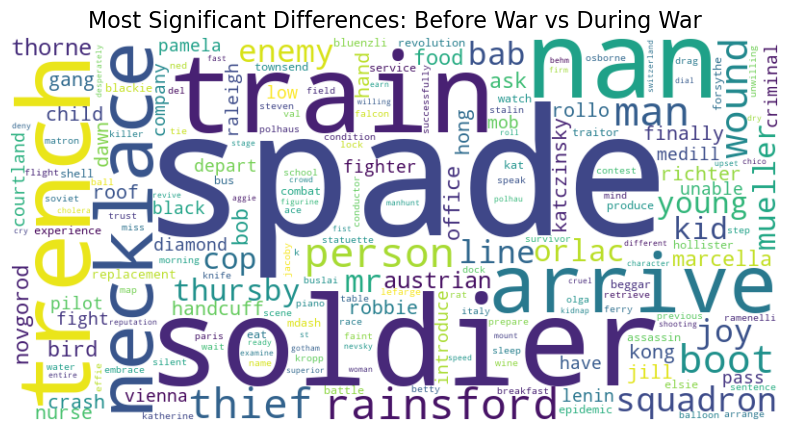
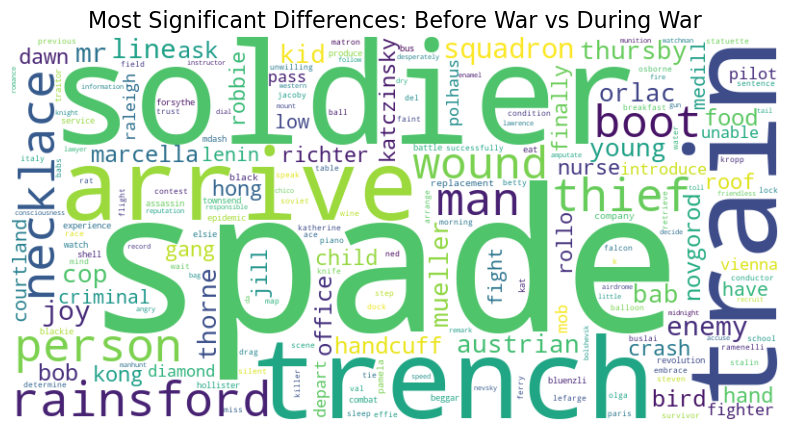
Small fixes, added NLP, changed plot text

diff --git a/WW2.md b/WW2.md
@@ -8,7 +8,6 @@ subtitle: How did it impact the movie industry ?
 - [Natural language processing](#natural-language-processing)
 - [Movie plot summaries analysis](#movie-plot-summaries-analysis)
 - [Ethniciy analysis](#ethniciy-analysis)
-- [Conclusion](#conclusion)
 
 # Genre Analysis 
 
@@ -33,7 +32,7 @@ Looking further back, an earlier peak is noticeable in Asia in 1938 and 1939, wh
 You return to your sofa to start watching the movie “Casablanca”, which has an IMDb rating of 8.5 and is about the war. As you watch, you notice that the film serves as propaganda against the Nazis.
 It's time for a movie break with some fun data analysis. This time, you focus on the propaganda movie genre. 
 
-![All continent](/assets/figures/WW2/Movies/Propaganda%20by%20continent.jpg){: .mx-auto.d-block :}
+![All continent](/assets/figures/WW2/Movies/Propaganda_by_continent.jpg){: .mx-auto.d-block :}
 
 You observe an increase in the production of propaganda films across all three continents you studied, starting from 1942. However, Europe shows a notable peak in 1940, right at the beginning of the war.
 By splitting Europe into two categories: Germany and the rest of Europe, you discover that the peak is primarily driven by German films. What a surprise !
@@ -43,29 +42,32 @@ By splitting Europe into two categories: Germany and the rest of Europe, you dis
 
 # Natural language processing
 
+Intrigued by earlier findings, a question arises: could the peaks in certain movie genres during World War II be unrelated to the war itself? To explore this, you decide to analyze movie plots from that period, focusing on the genres identified earlier.
 
+You sit again on your sofa, take a deep breath and try to remember your history lessons.. You recall that the years before the war were marked by rising antisemitism in Europe, while the post-war period emphasized the condemnation of the Nazi regime and the celebration of resistance efforts.
+
+To investigate, you conduct a sentiment analysis on the characters, isolating plot summaries featuring negatively perceived characters. You then divide the data into three periods: before the war (1930-1938), during the war (1939-1945), and after the war (1945-1955). The goal is to verify whether negatively perceived characters were more likely to follow some trends - for example being Jewish before the war and Nazis or Germans after. 
+
+By analyzing the words associated with these negative characters in the three different periods, you aim to reveal these trends. You decide to plot the words that exhibit the most significant differences for the periods before and during war, and for the periods during and after war.
 
 <div class="menu">
-  <button class="menu-item" onclick="showContent('content1')">Before After</button>
-  <button class="menu-item" onclick="showContent('content2')">Before During</button>
+  <button class="menu-item" onclick="showContent('content1')">Before During</button>
   <button class="menu-item" onclick="showContent('content3')">During After</button>
 </div>
 
 <div id="content-section">
   <div id="content1" class="content">
-    <h2>Item 1</h2>
-    <p>This is the content for Item 1.</p>
-    <img src="{{ '/assets/figures/WW2/NLP/NLP_before_after.png' | relative_url }}" alt="Image 1">
+    <h2>Before During</h2>
+    <img src="{{ '/assets/figures/WW2/NLP/NLP_before_during.png' | relative_url }}" alt="Image 1">
+    <p>You first have a look at the comparison between the period before the war and during the war. Bingo ! You realize the words that show the largest differences are actually related to war : enemy, soldier, criminal, assassin, battle, spade... Some of them even seem to be specifically related to world war II : train, pilot, Vienna, Italy, Soviet, Stalin, Paris. </p>
+    
   </div>
-  <div id="content2" class="content" style="display:none;">
-    <h2>Item 2</h2>
-    <p>This is the content for Item 2.</p>
-    <img src="{{ '/assets/figures/WW2/NLP/NLP_before_during.png' | relative_url }}" alt="Image 2">
-  </div>
+
   <div id="content3" class="content" style="display:none;">
-    <h2>Item 3</h2>
-    <p>This is the content for Item 3.</p>
+    <h2>During After 3</h2>
     <img src="{{ '/assets/figures/WW2/NLP/NLP_during_after.png'| relative_url }}" alt="Image 3">
+    <p>You then examine the comparison between the period during the war and after the war. Bing again ! You find a lot of words related to world war II, but now there is also the topic of resistance : Hitler, nazi, resistance, guerilla, Reich, France, Vichy, Germans, Führer, Mussolini...</p>
+    
   </div>
 </div>
 
@@ -79,7 +81,7 @@ By splitting Europe into two categories: Germany and the rest of Europe, you dis
     document.getElementById(contentId).style.display = 'block';
   }
 </script>
-
+You did not find exactly what you expected, but you are definitely convinced the peaks in certain movie genres are not a coincidence !
 <style>
   .menu {
     display: flex;
@@ -106,65 +108,66 @@ By splitting Europe into two categories: Germany and the rest of Europe, you dis
 
 # Movie plot summaries analysis
 
-You wish to look at the plot summaries of movies. You think to yourself : "Surely having a world war has changed not only the types of movies produced but the content of the movies itself too..." You then try to compute some statistics over the plot summaries. 
+You now want to look at the plot summaries of movies. You think to yourself, "Surely the impact of a world war must have influenced not only the types of movies produced but also their content..." So, you decide to compute some statistics based on the plot summaries.
 
-You first try to look at the expected number of words before and after the second world war.
-You filter out words that have an expected number of appearences less than 0.001, as they appear way too rarely. After some tedious computing, you obtain the first thirty biggest ratios :
+First, you look at the expected number of words before and after World War II. To ensure the analysis is meaningful, you filter out words that appear too infrequently, removing those with an expected frequency of less than 0.001. After some calculations, you obtain the top thirty words with the largest ratio of occurrences.
 
 {% include_relative assets/figures/WW2/Plot/WW2_plot_ratio_1e-3.html %} 
 
-What does that mean ? We see that the word "tank" appeared ~11 times more afterwards, "japanese" ~10 times more and "terrorist" ~8 times more. You are a bit confused by some words that are too specific, such as "alex" or "sandy". You decide to filter more aggressively and take out words that have an expected number of appearences less than 0.01 now. Again you do some computing and you obtain this :
+What does that tell us ? You observe that certain words have become significantly more frequent after the war. For example, "tank" appears roughly 11 times more often, "japanese" about 10 times more, and "terrorist" roughly 8 times more. Some words, such as "alex" or "sandy," are too specific and we would want more general words. So, you decide to filter more aggressively, removing words with an expected frequency lower than 0.01. 
 
 {% include_relative assets/figures/WW2/Plot/WW2_plot_ratio_1e-1.html %} 
 
-You are happy to find more general words. You see that the words "phone" appears ~4 times more and camera appears ~3 times more. You approve these results as technology is more obviously more present after the begginning of WW2 than before. You notice that among the plot with more general words, the words "mission", "u.s.", and "killing" appear ~3 times more.  You can not say that WW2 is the cause of the more frequent usage of these words but we keep them in mind for later, when we will analyse the plot summaries in a more specific time period.
+Now, you are pleased to see more general terms. For instance, "phone" appears approximately 4 times more frequently, and "camera" about 3 times more often. These results seem reasonable, as technology is used a lot more after WWII. Among the more general terms, you also find words like "mission," "u.s.," and "killing" appearing about 3 times more often. While you cannot definitively attribute these shifts to WWII, you keep these findings in mind for future analysis when you focus on specific time periods.
 
-Okay, good. You try now to fit a scatter plot comparing the expected number of words before and after WW2 with a linear regression. It looks like this :
+Okay, good. Now, you decide to fit a scatter plot comparing the expected number of words before and after WWII with a linear regression.
 
-<span style="color:green">Cheat : added picture </span>.
 
 ![WW2_plot_regression](/assets/figures/WW2/Plot/WW2_plot_regression_2.png){: .mx-auto.d-block :}
 
-The slope of the linear regression is ~1.37, suggesting that the expected number of a word tends to grow. This naively suggests that plot summaries got longer with time and should be ~1.37 longer in expectation, which makes sense but does not help us really here. We can however use this regression line to find interesting key words; you try to find the words that are the furthest from the regression line. This would allow for a more fair analysis for the biggest/smallest ratios, as it "normalizes" the fact that plot summaries got longer with time. You plot the ten furthest words :
+The slope of the linear regression is approximately 1.37, suggesting that the expected frequency of a word tends to increase over time. This is simply because that plot summaries have gotten longer, with an average increase of about 1.37 times, which makes sense but doesn't provide much insight for our current analysis. However, we can use this regression line to identify interesting keywords by focusing on those that deviate the most from the line. This approach helps "normalize" the analysis by accounting for the general trend of longer plot summaries over time. You plot the ten words that deviate most from the regression line.
+
 
 {% include_relative assets/figures/WW2/Plot/WW2_plot_furthest_regression.html %} 
 
- You then think that the theme of killing got more popular after WW2 as you see the word "kill" is present again.
+From this, you observe that the theme of "killing" seems to have gained more prominence after WWII, as the word "kill" appears more frequently.
 
-Instead of looking over statistics of all words, you try to focus on movies with certain key words. As key words, "Nazi", "Hitler", "Axis", "Allied" and "Jew" come first in your mind. You try to look at the number of movies that contain these key words. 
+Next, you shift your focus to movies containing specific keywords. You first think of terms like "Nazi," "Hitler," "Axis," "Allied," and "Jew." You examine the number of movies featuring these keywords over time.
 
 {% include_relative assets/figures/WW2/Plot/WW2_key_words_occurence.html %} 
 
 
-It makes sense that the word nazi is used a lot between 1940-1950, but you notice that it then stays constant, oscillating between 3 and 10 movies per year after 1950. The key words "Hitler", "Axis" and "Allied" present the same pattern, altough smaller in magnitudes. The key word "Jew" is more interesting. We can see growth until the beginning of WW2, where it shrinks a bit and stays constant until 1960, where it grows again. We could understand that after the atrocities comitted towards the jewish people, the movie industry may have been more prudent.
+It’s not surprising that the word "Nazi" peaks in the middle of WWII, but you notice that its frequency goes down already in 1944. We can not see it in the plot but you find that after 1950, between 3 and 10 movies per year contain the key word "Nazi", making it a theme. Similarly, the keywords "Hitler," "Axis," and "Allied" show a similar pattern, although with smaller magnitudes. The keyword "Jew" is more intriguing. We see growth leading up to WWII, then a slight decline during the war. You look at the time afterwards and you see a resurgence after 1960. This suggests that, in response to the atrocities committed against Jewish people, the film industry may have initially been cautious but gradually returned to addressing the topic in the post-war years.
 
-You find it interesting but it would make more sense to focus on time periods. You do that in two ways. First, you plot the years before and after the beginning of the war. Second, the years during the war, some years beforhand and some years afterwards. You remember the words "mission", "u.s.", "killing" and "kill" and you quickly add them in the key words. You plot the percentages of movies that contain the key words with respect to these time periods :
+You find this pattern interesting but decide it would be more insightful to focus on specific time periods. You examine the years during the war along with the years just before and after. You recall the words "mission," "u.s.," "killing," and "kill" and add them to your keyword list. You then plot the percentages of movies containing these keywords within the defined time periods.
 
 {% include_relative assets/figures/WW2/Plot/WW2_plot_percentage_before_during_after.html %} 
 
-We see again that the word "Nazi" was very present during the war, surely in propaganda movies. The words "Hitler", "Axis" and "Allied" have the same pattern, as we have seen beforehand already. We see again that thw word "Jew" gets less frequent. You look at the newly added key words. The word "Mission" present the same pattern as we have discussed. The words "u.s." and "killing" just grow with time. "kill" is an interesting key word. It is a lot used during the war compared to beforehand and stays the same afterwards.
+Once again, we see that the word "Nazi" was heavily used during the war, likely in propaganda films. The terms "Hitler," "Axis," and "Allied" follow the same pattern as before. The word "Jew" shows a noticeable decline during the war. Turning to the newly added keywords, "Mission" follows the same pattern as previously observed, while "U.S." and "Killing" steadily increase over time. "Kill" is particularly interesting: it appears significantly more during the war compared to before and remains steady afterward.
 
-We have seen that the word "kill" comes back often in our analysis, telling us that the violence of the war and death surely changed/shocked all human beings and that it reflects in the movie industry. 
+You think to yourself that WWII darkly influenced the content of movie plot summaries. It becomes clear that certain terms, such as "tank," "japanese," or "terrorist," became much more common post-WWII, reflecting the impact of the war on film themes. Additionally, terms related to violence, such as "killing" and "kill," grew in prominence during and after the war, suggesting a shift in the narrative focus of films. These results provide insights into how WWII shaped cinematic storytelling, with evolving themes related to technology, violence, and historical reflection.
 
 
 
 # Ethniciy analysis 
 
-Did you know where the main character of your favorite movie comes from? What  about its ethnicities? 
+Did you know where the main character of your favorite movie comes from? What about their ethnicities? 
 You are in your sofa still looking for movies from 1942. You noted the distribution of the ethnicity of the main character is very different than the one from 2010. Hence, when do you think the shift was experienced? Could the actor ethnicity be influenced by capital world event like World War II? To investigate we focus on 1937 -1948 years, to avoid confounding factors. Furthermore, for statistical relevance reasons the subsequent analysis will be based on North America and Europe.
 
 
 ![ethnicity_WW2](/assets/figures/WW2/Ethnicity/WW2_etchnicty_distribution.png){: .mx-auto.d-block :}
 
-Within the 10 most represented ethnicities we observe some interesting shift between the two times range, for example increase in Swedes character in Europe or decrease in Irish American in North America. Where can we found the impact of World War 2 ? If we looked at the German character representation we do not observe any difference in the occurence between the two time range. Most likely, because the second time period contain the War during which German was highly represented for example in German propaganda film. Another interesting ethnicities for our analysis is Jewish people. We observe an increase in the proportions of occurences in the second time period both in North America and in Europe. The increase was however stronger in North America, which exhibit a ratio of 0.98 whereas in Europe the ratio was 0.8. To assess this observation we want to further look at the distribution of German character and Jewish people throughout the last century.
+Within the 10 most represented ethnicities we observe some interesting shift between the two times range, for example increase in Swedes character in Europe or decrease in Irish American in North America.
+
+Where can we found the impact of World War 2 ? If we looked at the German character representation we do not observe any difference in the occurence between the two time range. Most likely, because the second time period contain the War during which German was highly represented for example in German propaganda film. Another interesting ethnicities for our analysis is Jewish people. We observe an increase in the proportions of occurences in the second time period both in North America and in Europe. The increase was however stronger in North America, which exhibit a ratio of 0.98 whereas in Europe the ratio was 0.8. To assess this observation we want to further look at the distribution of German character and Jewish people throughout the last century.
 
 
 
-![ethnicity_German_jew](/assets/figures/WW2/Ethnicity/German_jew_evolution.png){: .mx-auto.d-block :}
+![ethnicity_German_jew](/assets/figures/WW2/Ethnicity/German_jew_abs_evolution.png){: .mx-auto.d-block :}
 
 What is the impact on German character ? In Europe, we observe a big rise in German character which drops in 1945. Do you see the link with WW2? The end of the war coincided with a drop in German propaganda film and therefore, a consequent reduction of German representation in movies. What about the representation of Jewish ? In Europe the representation of Jewish seems to be greatly impacted by the war as the significantly decrease starting form late 1930’s towards today. In parallel, 1930’s corresponds to a rise of antisemitism in Europe, and rise of exclusion laws for Jewish in Germany. Therefore, explaining the decrease in Jewish character proportion in movies. On the other hand, the representation of Jewish character in North America does not seem to get impacted between 1940 and 1950. Hence, we know World War 2 had a greater impact on Europe Jewish population compared to American Jewish population. Then the decrease observed in Jewish representation in Europe is most likely caused by WW2
 
-# Conclusion
+
 
 
 

diff --git a/9_11.md b/9_11.md
@@ -42,44 +42,46 @@ This suggests that while the impact of 9/11 on political cinema is most evident 
 
 # Movies plot summaries analysis 
 
-You now look at the plot summaries of the movies. Surely after an event like this, plot summaries of movies have changed. But how ? You try then to compute interesting stuff.
+You decide to examine the plot summaries of movies, thinking that an event as significant as 9/11 must have influenced their content. But how exactly did it impact the plots ? You set out to compute some interesting statistics to explore this.
 
-You first try to look at the expected number of words before and after 9/11.
-You filter out words that have an expected number of appearences less than 0.001, as they appear way too rarely. After some tedious computing, you obtain the first thirty biggest ratios :
+First, you analyze the expected number of words before and after 9/11. To ensure meaningful results, you filter out words that appear too infrequently — those with an expected frequency of less than 0.001. After some extensive calculations, you identify the top thirty words with the largest ratios of occurrence:
 
 
 {% include_relative assets/figures/9_11/Plot/9_11_plot_ratio_1e-3.html %} 
 
 <img src="assets/img/shrek.jpg" alt="drawing" width="200"/>
-Mmmmh, we do not see any interesting words, except maybe "[shrek](https://www.francetvinfo.fr/pictures/KI83JKIWxYVA8ng-cUtYxM6l-z8/1200x1200/2016/08/23/shrek-5.jpg)"; it made you chuckle. You try then to to filter more aggressively and take out words that have an expected number of appearences less than 0.01. You obtain this now : 
+MMmmmh, these results don’t reveal much. You notice the word"[shrek](https://www.francetvinfo.fr/pictures/KI83JKIWxYVA8ng-cUtYxM6l-z8/1200x1200/2016/08/23/shrek-5.jpg), which makes you chuckle.
+
+You decide to refine your analysis further by filtering out words with an expected frequency lower than 0.01. The new results look like this:
 
 {% include_relative assets/figures/9_11/Plot/9_11_plot_ratio_1e-1.html %} 
 
-You obtain more general words, altough some are still too specific, as "kim" or "patrick". You see the words "video", "web" and "phone" which makes a lot of sense, as these got more popular after the 2000's. You notice the word "terrorist" with a ratio of ~2, which means it appears twice more often in plot summaries than before.
+This time, you notice more general words, though some — like "Kim" or "Patrick" — remain too still too specific. More relevant terms like "video," "web," and "phone" stand out, reflecting their rise in popularity after the 2000s. Additionally, the word "terrorist" appears with a ratio of about 2, meaning it appears twice as often in plot summaries after 9/11.
 
-Okay, that was not very concluant. You try now to fit a scatter plot comparing the expected number of words before and after 9/11 with a linear regression.
-
+Although this provides some interesting insights, the findings are not particularly conclusive. You then decide to plot a scatter graph comparing the expected number of words before and after 9/11, along with a linear regression line.
 
 
 ![9_11_plot_regression](/assets/figures/9_11/Plot/9_11_plot_regression.png){: .mx-auto.d-block :}
 
-The slope of the linear regression is ~1.14, suggesting that the expected number of a word tends to grow slighlty. This naively suggests that plot summaries got longer with time and should be ~1.14 longer in expectation, which makes sense but does not help us really here. We can however use this regression line to find interesting key words; you try to find the words that are the furthest from the regression line. This would allow for a more fair analysis for the biggest/smallest ratios, as it "normalizes" the fact that plot summaries got longer with time.
+The regression slope is approximately 1.14, suggesting that the expected frequency of words tends to increase slightly over time. This indicates that plot summaries have generally gotten longer, which makes sense but doesn’t provide much additional insight for this analysis. However, you can use this regression line to identify keywords that are furthest from it. This provides a more accurate comparison of the ratios, accounting for the general trend of increasing plot summary length over time.
 
 {% include_relative assets/figures/9_11/Plot/9_11_plot_furthest_regression.html %} 
 
-You again find words that are not related to our case at hand, except for the word "war". 
+You find several words that are not directly related to the topic at hand, except for "war."
 
-Instead of looking over statistics of all words, you try to focus on movies with certain key words. As key words, "plane", "tower", "terrorism", "hijack" and "islam" come first in your mind. You try to look at the number of movies that contain these key words. 
+Rather than analyzing all words, you decide to focus on movies featuring specific keywords. The terms "plane," "tower," "terrorism," "hijack," and "islam" comes first to mind. You then examine the number of movies containing these keywords.
 
 {% include_relative assets/figures/9_11/Plot/9_11_key_words_occurence_14_18_24.html %} 
 
-We can see that the word "terrorist" and "tower" were more frequent after 2002 and grow, but drops in 2010. The word "terrorism" slightly grows after 2001 but then drops in 2008. There is a peak for the word "hijack" in 2006 and then drops a bit.
+Strangely, the word "plane" drops in 2008. The data reveals that the words "terrorist" and "tower" became more frequent after 2002, showing an increase, though they drop in 2010. The term "terrorism" experiences a slight rise after 2001, followed by a decline in 2008. There’s also a peak in 2006 for "hijack," after which its frequency decreases.
 
-Okay but it would make more sense to focus on time periods. You plot the years before and after 9/11. 
+However, it seems more insightful to focus on specific time periods. You plot the number of movies before and after 9/11.
 
 {% include_relative assets/figures/9_11/Plot/9_11_plot_percentage_before_after.html %} 
 
-It is interesting to see that for the word "plane", it is less used after 9/11 than before, even though you would expect to have more.
+Interestingly, the term "plane" is used less frequently after 9/11 than before, despite the expectation that it would appear more often. It is surely not linked to 9/11 as we saw in the previous plot that it begins to drop in 2008. We see a slight drop for all key words except for "terrorism" and "islam". This plot being heavily influenced from the time after 2008, it may have been more insightful to have smaller time periods before and after 9/11. 
+
+In conclusion, analyzing the plot summaries of movies before and after 9/11 reveals some notable shifts in terminology, but the results are not entirely conclusive. While the analysis provides some useful trends, a more refined approach with smaller time periods before and after 9/11 could yield deeper insights.
 
 # Ethnicity analysis
 ![ethnicity_911](/assets/figures/9_11/Ethnicity/9-11_etchnicty_distribution.png){: .mx-auto.d-block :}

diff --git a/TheTeam.md b/TheTeam.md
@@ -7,7 +7,7 @@ subtitle: No, we are not alcoholics
 
 ![Crepe](/assets/img/team_picture.jpg){: .mx-auto.d-block :}
 
-From left to right : **Ines** (Environemental science), **Louis** (Robotics), **Justine** (Life science), **Mirco** (Data Science), **Theodore** (Robotics)
+From left to right : **Ines** (Environemental science), **Louis** (Robotics), **Justine** (Life science), **Theodore** (Robotics), **Mirco** (Data Science), **Theodore** (Robotics)
 
 
 <h3 style="text-align:center;"> Movies have no secret for us anymore </h3>

diff --git a/index.md b/index.md
@@ -48,7 +48,3 @@ To begin, we focused on **World War II**, a global event that reshaped world his
   }
 </style>
 
-
-
-
-# Conclusion
